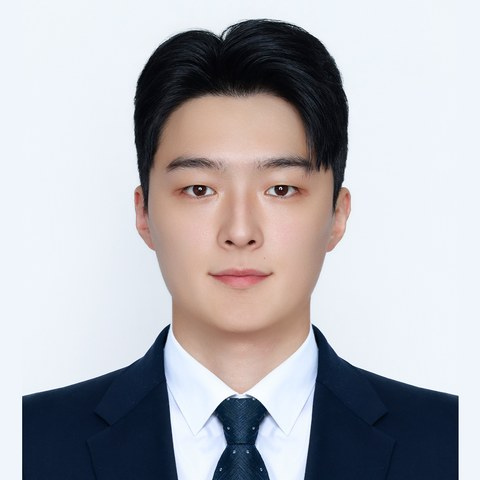
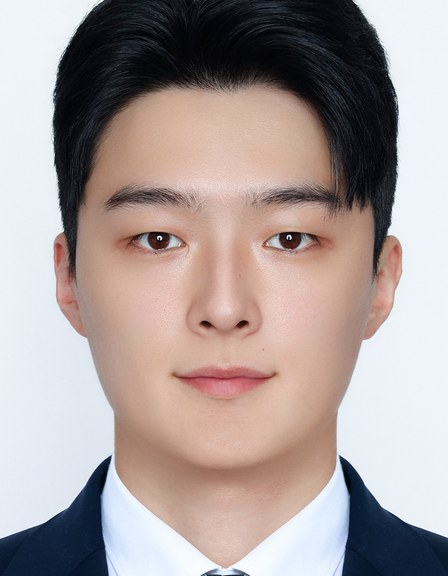
Add files via upload

diff --git a/style.css b/style.css
@@ -209,16 +209,16 @@ section.tight { padding: 56px 0; }
 
 /* member placeholder cards */
 .member { text-align: center; }
-.member .avatar { width: 110px; aspect-ratio: 1/1; border-radius: 50%; margin: 0 auto 16px; }
-.member .avatar .initials { font-size: 2rem; }
+.member .avatar { width: 140px; aspect-ratio: 448/576; border-radius: 14px; margin: 0 auto 16px; }
+.member .avatar .initials { font-size: 2.2rem; }
 .member h4 { margin: 0 0 3px; font-size: 1.05rem; color: var(--ink); }
 .member .role { color: var(--blue); font-weight: 600; font-size: .9rem; }
 .member .topic { color: var(--muted); font-size: .86rem; margin-top: 6px; }
 
 /* alumni cards */
 .alum { text-align: center; }
-.alum .avatar { width: 108px; aspect-ratio: 1/1; border-radius: 50%; margin: 0 auto 16px; }
-.alum .avatar .initials { font-size: 2rem; }
+.alum .avatar { width: 140px; aspect-ratio: 448/576; border-radius: 14px; margin: 0 auto 16px; }
+.alum .avatar .initials { font-size: 2.2rem; }
 .alum-degree {
   display: inline-block; background: var(--blue-light); color: var(--blue-dark);
   font-size: .72rem; font-weight: 800; letter-spacing: .06em; text-transform: uppercase;
